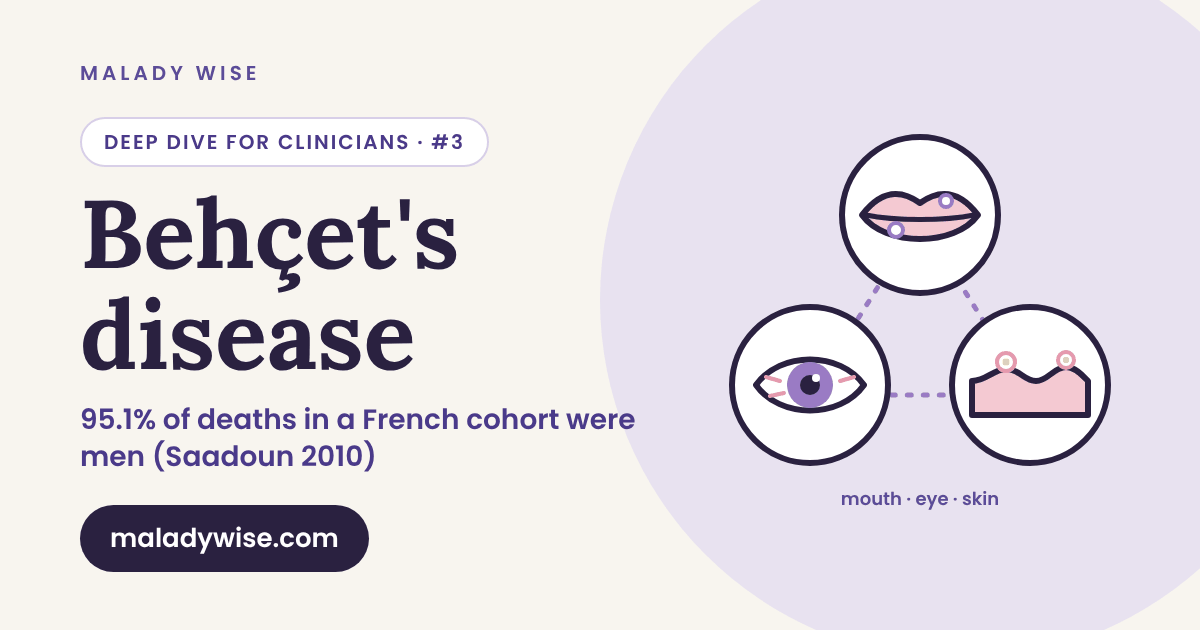
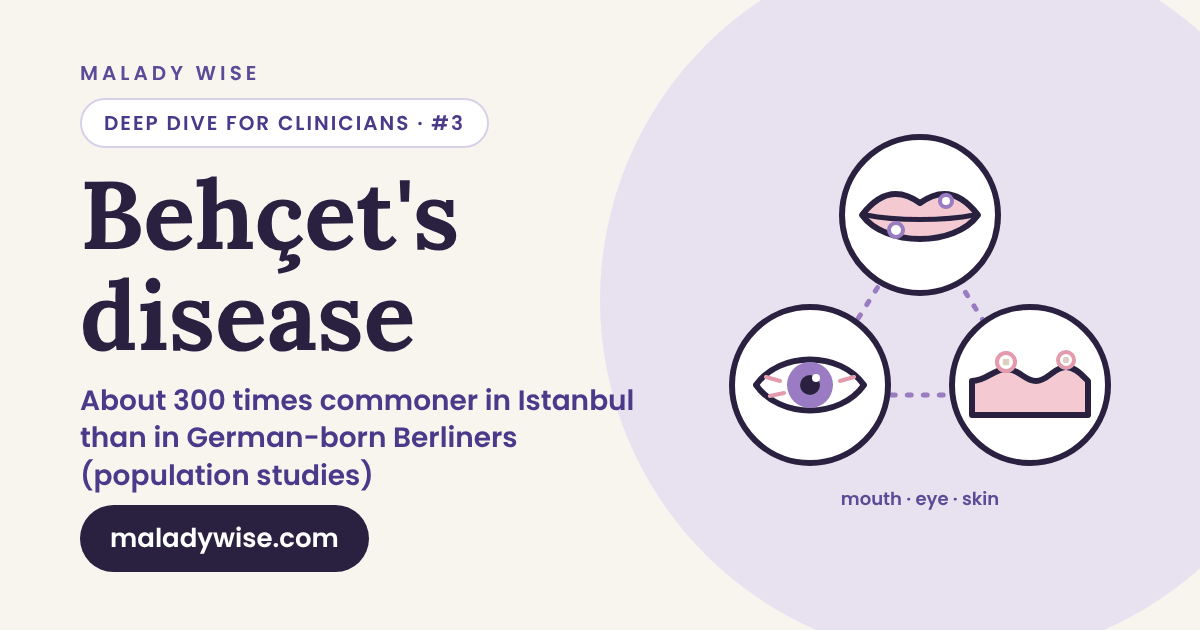
Behçet's deep dive card: Silk Road prevalence fact
Claude-Session: https://claude.ai/code/session_01CBByq29dY2cNCTmjZTgF1V

Changed region(s): [[0.0617, 0.1508, 0.5242, 0.7841]]

diff --git a/deep-dives/behcets/index.html b/deep-dives/behcets/index.html
@@ -14,11 +14,11 @@
 <meta name="apple-mobile-web-app-title" content="Malady Wise">
 <meta property="og:title" content="Behçet's disease: deep dive | Malady Wise">
 <meta property="og:description" content="Behçet's disease for doctors: ISG and ICBD criteria, Silk Road epidemiology, HLA-B51 and ERAP1, organ-by-organ EULAR 2018 management, apremilast, mortality and frontier trials.">
-<meta property="og:image" content="https://maladywise.com/assets/og/pages/deep-dives-behcets.png?v=42b11c42">
+<meta property="og:image" content="https://maladywise.com/assets/og/pages/deep-dives-behcets.png?v=c7c1b568">
 <meta property="og:image:width" content="1200">
 <meta property="og:image:height" content="630">
-<meta property="og:image:alt" content="Deep dive for clinicians · #3: Behçet&#x27;s disease. 95.1% of deaths in a French cohort were men (Saadoun 2010). Malady Wise">
-<meta name="twitter:image" content="https://maladywise.com/assets/og/pages/deep-dives-behcets.png?v=42b11c42">
+<meta property="og:image:alt" content="Deep dive for clinicians · #3: Behçet&#x27;s disease. About 300 times commoner in Istanbul than in German-born Berliners (population studies). Malady Wise">
+<meta name="twitter:image" content="https://maladywise.com/assets/og/pages/deep-dives-behcets.png?v=c7c1b568">
 <meta property="og:url" content="https://maladywise.com/deep-dives/behcets/">
 <meta property="og:type" content="article">
 <meta name="twitter:card" content="summary_large_image">
@@ -28,8 +28,8 @@
 <script defer src="/assets/games.js?v=104"></script>
 <script defer src="/assets/site.js?v=45"></script>
 <script defer src="/assets/shell.js?v=196"></script>
-<script type="application/ld+json" id="mw-page-ld">{"@context": "https://schema.org", "@type": "MedicalWebPage", "name": "Behçet's disease: deep dive", "headline": "Behçet's disease: deep dive for health professionals", "description": "Behçet's disease for doctors: ISG and ICBD criteria, Silk Road epidemiology, HLA-B51 and ERAP1, organ-by-organ EULAR 2018 management, apremilast, mortality and frontier trials.", "url": "https://maladywise.com/deep-dives/behcets/", "inLanguage": "en-AU", "image": "https://maladywise.com/assets/og/pages/deep-dives-behcets.png?v=42b11c42", "datePublished": "2026-11-01", "dateModified": "2026-11-01", "audience": {"@type": "MedicalAudience", "audienceType": "Physician"}, "author": {"@type": "Organization", "name": "Malady Wise", "url": "https://maladywise.com/"}, "publisher": {"@type": "Organization", "name": "Malady Wise", "url": "https://maladywise.com/"}, "breadcrumb": {"@type": "BreadcrumbList", "itemListElement": [{"@type": "ListItem", "position": 1, "name": "Malady Wise", "item": "https://maladywise.com/"}, {"@type": "ListItem", "position": 2, "name": "Deep dives", "item": "https://maladywise.com/deep-dives/"}, {"@type": "ListItem", "position": 3, "name": "Behçet's disease", "item": "https://maladywise.com/deep-dives/behcets/"}]}, "about": {"@type": "MedicalCondition", "name": "Behçet's disease", "alternateName": ["Behçet syndrome", "Adamantiades–Behçet disease", "Silk Road disease"]}}</script>
-<script type="application/json" id="og-card">{"number": 3, "fact": "95.1% of deaths in a French cohort were men", "source": "Saadoun 2010", "art": "<svg xmlns=\"http://www.w3.org/2000/svg\" viewBox=\"0 0 420 400\"><path d=\"M210 105 L100 280 L320 280 Z\" fill=\"none\" stroke=\"#9A7BC4\" stroke-width=\"5\" stroke-dasharray=\"4 12\" stroke-linecap=\"round\"/><g fill=\"#fff\" stroke=\"#2A2140\" stroke-width=\"6\"><circle cx=\"210\" cy=\"100\" r=\"78\"/><circle cx=\"100\" cy=\"270\" r=\"78\"/><circle cx=\"320\" cy=\"270\" r=\"78\"/><\/g><path d=\"M152 100 C175 70 196 78 210 88 C224 78 245 70 268 100 C245 132 175 132 152 100 Z\" fill=\"#F4C9D2\" stroke=\"#2A2140\" stroke-width=\"6\" stroke-linejoin=\"round\"/><path d=\"M156 100 C185 106 235 106 264 100\" fill=\"none\" stroke=\"#2A2140\" stroke-width=\"5\" stroke-linecap=\"round\"/><g fill=\"#fff\" stroke=\"#9A7BC4\" stroke-width=\"4\"><circle cx=\"186\" cy=\"115\" r=\"7\"/><circle cx=\"236\" cy=\"86\" r=\"6\"/><\/g><path d=\"M46 270 C70 236 130 236 154 270 C130 304 70 304 46 270 Z\" fill=\"#fff\" stroke=\"#2A2140\" stroke-width=\"6\" stroke-linejoin=\"round\"/><circle cx=\"100\" cy=\"270\" r=\"23\" fill=\"#9A7BC4\"/><circle cx=\"100\" cy=\"270\" r=\"10\" fill=\"#2A2140\"/><circle cx=\"106\" cy=\"263\" r=\"4\" fill=\"#fff\"/><path d=\"M56 262 l14 4 M60 281 l14 -3 M144 262 l-14 4\" stroke=\"#E59AAE\" stroke-width=\"4\" stroke-linecap=\"round\"/><path d=\"M262 300 L262 266 C276 266 284 254 296 254 C310 254 314 266 326 266 C338 266 344 252 356 252 C366 252 374 262 378 266 L378 300 Z\" fill=\"#F4C9D2\" stroke=\"#2A2140\" stroke-width=\"6\" stroke-linejoin=\"round\"/><g fill=\"#fff\" stroke=\"#E59AAE\" stroke-width=\"4\"><circle cx=\"296\" cy=\"247\" r=\"9\"/><circle cx=\"356\" cy=\"245\" r=\"8\"/><\/g><circle cx=\"296\" cy=\"247\" r=\"3.5\" fill=\"#F2D27A\"/><circle cx=\"356\" cy=\"245\" r=\"3\" fill=\"#F2D27A\"/><text x=\"210\" y=\"390\" font-family=\"Poppins\" font-size=\"18\" font-weight=\"600\" fill=\"#5B4C99\" text-anchor=\"middle\">mouth · eye · skin<\/text><\/svg>"}</script>
+<script type="application/ld+json" id="mw-page-ld">{"@context": "https://schema.org", "@type": "MedicalWebPage", "name": "Behçet's disease: deep dive", "headline": "Behçet's disease: deep dive for health professionals", "description": "Behçet's disease for doctors: ISG and ICBD criteria, Silk Road epidemiology, HLA-B51 and ERAP1, organ-by-organ EULAR 2018 management, apremilast, mortality and frontier trials.", "url": "https://maladywise.com/deep-dives/behcets/", "inLanguage": "en-AU", "image": "https://maladywise.com/assets/og/pages/deep-dives-behcets.png?v=c7c1b568", "datePublished": "2026-11-01", "dateModified": "2026-11-01", "audience": {"@type": "MedicalAudience", "audienceType": "Physician"}, "author": {"@type": "Organization", "name": "Malady Wise", "url": "https://maladywise.com/"}, "publisher": {"@type": "Organization", "name": "Malady Wise", "url": "https://maladywise.com/"}, "breadcrumb": {"@type": "BreadcrumbList", "itemListElement": [{"@type": "ListItem", "position": 1, "name": "Malady Wise", "item": "https://maladywise.com/"}, {"@type": "ListItem", "position": 2, "name": "Deep dives", "item": "https://maladywise.com/deep-dives/"}, {"@type": "ListItem", "position": 3, "name": "Behçet's disease", "item": "https://maladywise.com/deep-dives/behcets/"}]}, "about": {"@type": "MedicalCondition", "name": "Behçet's disease", "alternateName": ["Behçet syndrome", "Adamantiades–Behçet disease", "Silk Road disease"]}}</script>
+<script type="application/json" id="og-card">{"number": 3, "fact": "About 300 times commoner in Istanbul than in German-born Berliners", "source": "population studies", "art": "<svg xmlns=\"http://www.w3.org/2000/svg\" viewBox=\"0 0 420 400\"><path d=\"M210 105 L100 280 L320 280 Z\" fill=\"none\" stroke=\"#9A7BC4\" stroke-width=\"5\" stroke-dasharray=\"4 12\" stroke-linecap=\"round\"/><g fill=\"#fff\" stroke=\"#2A2140\" stroke-width=\"6\"><circle cx=\"210\" cy=\"100\" r=\"78\"/><circle cx=\"100\" cy=\"270\" r=\"78\"/><circle cx=\"320\" cy=\"270\" r=\"78\"/><\/g><path d=\"M152 100 C175 70 196 78 210 88 C224 78 245 70 268 100 C245 132 175 132 152 100 Z\" fill=\"#F4C9D2\" stroke=\"#2A2140\" stroke-width=\"6\" stroke-linejoin=\"round\"/><path d=\"M156 100 C185 106 235 106 264 100\" fill=\"none\" stroke=\"#2A2140\" stroke-width=\"5\" stroke-linecap=\"round\"/><g fill=\"#fff\" stroke=\"#9A7BC4\" stroke-width=\"4\"><circle cx=\"186\" cy=\"115\" r=\"7\"/><circle cx=\"236\" cy=\"86\" r=\"6\"/><\/g><path d=\"M46 270 C70 236 130 236 154 270 C130 304 70 304 46 270 Z\" fill=\"#fff\" stroke=\"#2A2140\" stroke-width=\"6\" stroke-linejoin=\"round\"/><circle cx=\"100\" cy=\"270\" r=\"23\" fill=\"#9A7BC4\"/><circle cx=\"100\" cy=\"270\" r=\"10\" fill=\"#2A2140\"/><circle cx=\"106\" cy=\"263\" r=\"4\" fill=\"#fff\"/><path d=\"M56 262 l14 4 M60 281 l14 -3 M144 262 l-14 4\" stroke=\"#E59AAE\" stroke-width=\"4\" stroke-linecap=\"round\"/><path d=\"M262 300 L262 266 C276 266 284 254 296 254 C310 254 314 266 326 266 C338 266 344 252 356 252 C366 252 374 262 378 266 L378 300 Z\" fill=\"#F4C9D2\" stroke=\"#2A2140\" stroke-width=\"6\" stroke-linejoin=\"round\"/><g fill=\"#fff\" stroke=\"#E59AAE\" stroke-width=\"4\"><circle cx=\"296\" cy=\"247\" r=\"9\"/><circle cx=\"356\" cy=\"245\" r=\"8\"/><\/g><circle cx=\"296\" cy=\"247\" r=\"3.5\" fill=\"#F2D27A\"/><circle cx=\"356\" cy=\"245\" r=\"3\" fill=\"#F2D27A\"/><text x=\"210\" y=\"390\" font-family=\"Poppins\" font-size=\"18\" font-weight=\"600\" fill=\"#5B4C99\" text-anchor=\"middle\">mouth · eye · skin<\/text><\/svg>"}</script>
 <style id="ddfig-css">.ddfig{margin:14px 0 12px}.ddfig svg{display:block;width:100%;max-width:520px;height:auto;margin:0 auto;overflow:visible}.ddfig .b rect{fill:color-mix(in srgb,var(--brand) 8%,var(--card));stroke:var(--brand);stroke-width:1.5}.ddfig .k rect{fill:var(--brand);stroke:var(--brand);stroke-width:1.5}.ddfig text{text-anchor:middle;font-family:var(--body)}.ddfig .h{font-size:13px;font-weight:600;fill:var(--ink)}.ddfig .s{font-size:11.5px;fill:var(--brand)}.ddfig .k text{fill:var(--bg)}.ddfig .a{stroke:var(--brand);stroke-width:1.6;fill:none}.ddfig .ah{fill:var(--brand)}.ddfig .e{font-size:11px;font-weight:600;fill:var(--muted)}.ddfig figcaption{font-size:13px;color:var(--muted);text-align:center;margin-top:6px}@media print{.ddfig svg{max-width:380px}}</style>
 </head>
 <body>
